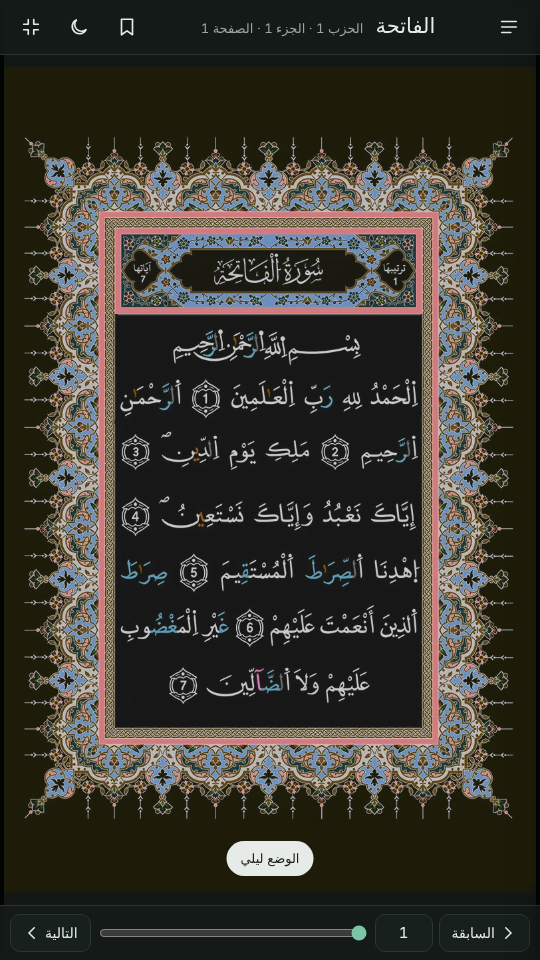
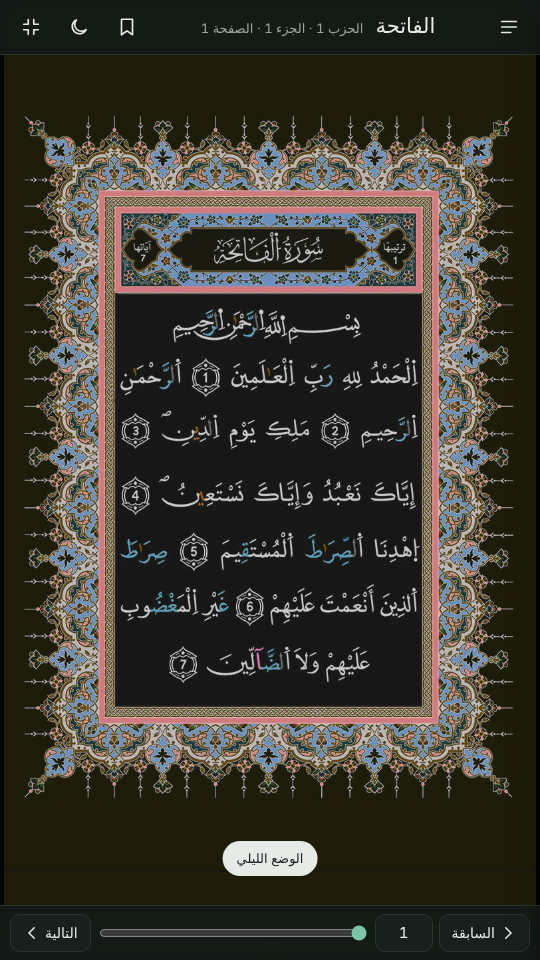
Add a page number under each mushaf page
The page images carry no printed numbers, so each page now has a numbered strip in the paper colour (matched per reading tone). Also fixes the two-page spread order after the RTL switch: page 1 is on the right again.

Claude-Session: https://claude.ai/code/session_016P4nmm3uinSdpAbEJH42wX

diff --git a/index.html b/index.html
@@ -50,18 +50,24 @@ button{cursor:pointer}
 /* the page */
 .stage{position:fixed;inset:0;display:flex;align-items:center;justify-content:center;
   padding:max(4px,env(safe-area-inset-top,0px)) max(4px,env(safe-area-inset-right,0px)) max(4px,env(safe-area-inset-bottom,0px)) max(4px,env(safe-area-inset-left,0px));touch-action:pan-y pinch-zoom}
-.spread{height:100%;max-width:100%;display:flex;flex-direction:row-reverse;justify-content:center;align-items:center;transition:transform .2s ease,opacity .2s ease}
+.spread{height:100%;max-width:100%;display:flex;flex-direction:row;justify-content:center;align-items:center;transition:transform .2s ease,opacity .2s ease}
 .spread.out-l{transform:translateX(-20px);opacity:0}.spread.out-r{transform:translateX(20px);opacity:0}
-.pg{height:100%;aspect-ratio:600/932;max-width:100%;background:#fffef6;box-shadow:var(--shadow);overflow:hidden;border-radius:3px}
+.pg{height:100%;aspect-ratio:600/975;max-width:100%;background:#fffcdb;box-shadow:var(--shadow);overflow:hidden;border-radius:3px;
+  display:flex;flex-direction:column;container-type:size}
 .spread.two .pg{max-width:50%}
 .spread.two .pg:first-child{border-radius:0 3px 3px 0}
 .spread.two .pg:last-child{border-radius:3px 0 0 3px}
-.pg img{display:block;width:100%;height:100%;object-fit:contain;-webkit-user-drag:none;pointer-events:none;
+.pg img{display:block;width:100%;flex:1 1 0;min-height:0;object-fit:contain;-webkit-user-drag:none;pointer-events:none;
   filter:brightness(var(--dim,1));transition:filter .25s ease}
 /* reading tones: warm softens the white, night inverts the page and keeps the tajweed colours readable */
 :root[data-tone="warm"] .pg{background:#f3e7c9}
+/* page number strip under each page, as in a printed mushaf */
+.pno{flex:none;height:4.4cqh;display:grid;place-items:center;color:#1f5c48;font:600 2.3cqh/1 var(--f-ar);font-variant-numeric:lining-nums tabular-nums}
+.pno span{min-width:5.2cqh;padding:.12em .6em;border:1px solid #c9a24d;border-radius:1em;text-align:center;filter:brightness(var(--dim,1))}
+:root[data-tone="night"] .pno{color:#d7a947}
+:root[data-tone="night"] .pno span{border-color:#6f5a2a}
 :root[data-tone="warm"] .pg img{filter:sepia(.4) saturate(.9) brightness(calc(var(--dim,1) * .96))}
-:root[data-tone="night"] .pg{background:#141815}
+:root[data-tone="night"] .pg{background:#1e1c09}
 :root[data-tone="night"] .pg img{filter:invert(.92) hue-rotate(180deg) saturate(.85) brightness(calc(var(--dim,1) * .88)) contrast(.95)}
 :root[data-tone="night"] .stage{background:#050706}
 
@@ -252,7 +258,9 @@ function pagesFor(p){ if(!twoUp()) return [p]; var a = p%2 ? p : p-1; return a+1
 function makePage(p){
   var d=document.createElement('div'); d.className='pg'; d.dataset.p=p;
   var img=document.createElement('img'); img.alt='الصفحة '+p; img.decoding='async'; img.src=PAGES[p-1];
-  d.appendChild(img); return d;
+  var n=document.createElement('div'); n.className='pno'; n.setAttribute('aria-hidden','true');
+  var ns=document.createElement('span'); ns.textContent=p; n.appendChild(ns);
+  d.append(img,n); return d;
 }
 function warm(p){ if(p>=1&&p<=N){ var i=new Image(); i.decoding='async'; i.src=PAGES[p-1]; if(i.decode) i.decode().catch(function(){}); } }
 function go(p, instant){

diff --git a/sw.js b/sw.js
@@ -1,5 +1,5 @@
 // Shell is versioned (bump SHELL to ship an update); page images live in their own cache and survive shell updates.
-const SHELL = 'warsh-shell-v4';
+const SHELL = 'warsh-shell-v5';
 const PAGE_CACHE = 'warsh-pages-v1';
 const ASSETS = ['./', './index.html', './manifest.webmanifest', './icons/icon-192.png', './icons/icon-512.png', './icons/icon-maskable-192.png', './icons/icon-maskable-512.png', './icons/icon-monochrome-512.png', './icons/apple-touch-icon.png', './icons/favicon-32.png'];
 
